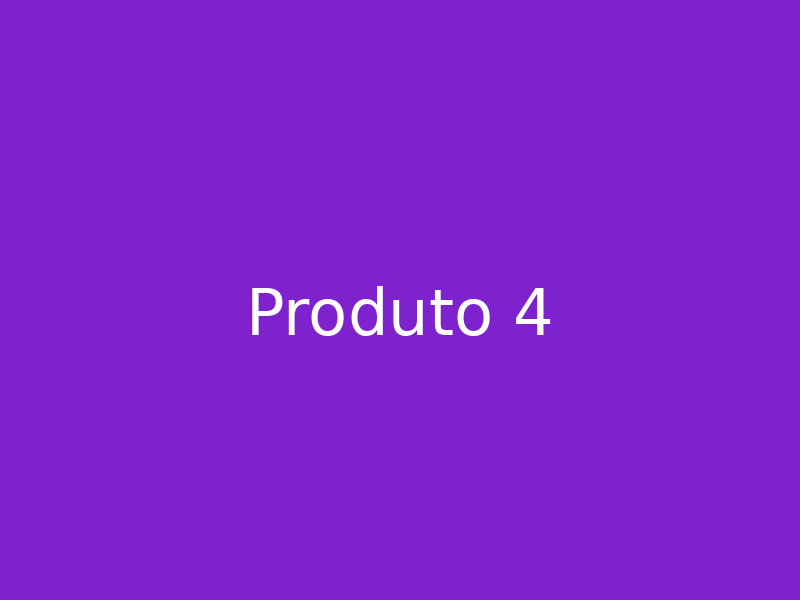
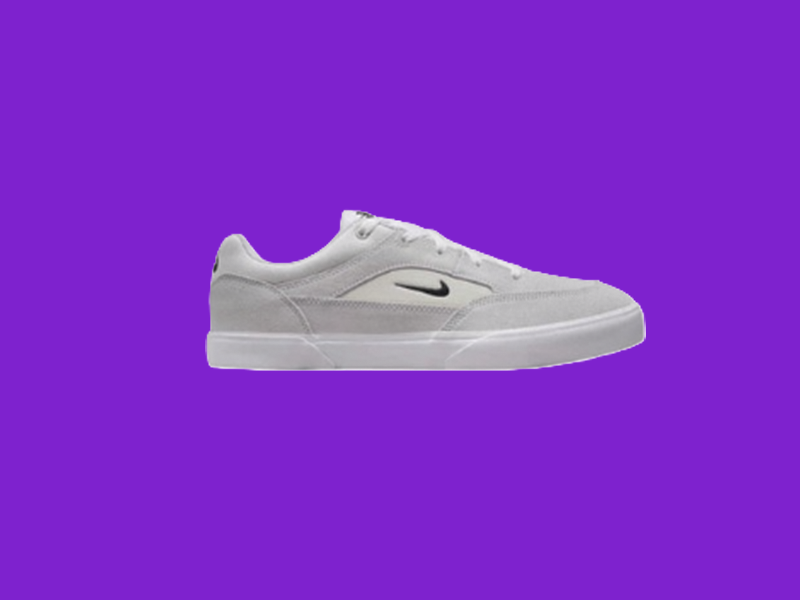
feat: add produtos vendidos

Changed region(s): [[0.25, 0.33, 0.8125, 0.63]]

diff --git a/src/styles/globals.css b/src/styles/globals.css
@@ -1,28 +1,108 @@
-
-:root{
-  --bg:#f5f6fa;
-  --surface:#ffffff;
-  --text:#222;
-  --muted:#6b7280;
-  --primary:#0d66c2;
+:root {
+  --bg: #f5f6fa;
+  --surface: #ffffff;
+  --text: #222;
+  --muted: #6b7280;
+  --primary: #0d66c2;
 }
-*{box-sizing:border-box}
-html,body{padding:0;margin:0;font-family:system-ui, -apple-system, Segoe UI, Roboto, Ubuntu, Cantarell, Noto Sans, Arial, "Apple Color Emoji","Segoe UI Emoji"; color:var(--text);background:var(--bg)}
 
-.container{width:min(1100px, 92%); margin:0 auto}
-.topbar{position:sticky;top:0;background:var(--surface);border-bottom:1px solid #e5e7eb;z-index:10}
-.topbar-inner{display:flex;align-items:center;justify-content:space-between;padding:14px 0}
-.logo{font-weight:700;letter-spacing:0.4px;text-decoration:none;color:var(--text)}
-.menu a{margin-left:18px;text-decoration:none;color:var(--text)}
-.menu .carrinho-link span{background:var(--primary);color:#fff;border-radius:999px;padding:2px 8px;margin-left:6px}
+* {
+  box-sizing: border-box
+}
 
-.btn{background:var(--primary);color:#fff;border:none;border-radius:6px;padding:10px 14px;cursor:pointer}
-.btn:hover{filter:brightness(0.95)}
+html,
+body {
+  padding: 0;
+  margin: 0;
+  font-family: system-ui, -apple-system, Segoe UI, Roboto, Ubuntu, Cantarell, Noto Sans, Arial, "Apple Color Emoji", "Segoe UI Emoji";
+  color: var(--text);
+  background: var(--bg)
+}
+
+.container {
+  width: min(1100px, 92%);
+  margin: 0 auto
+}
+
+.topbar {
+  position: sticky;
+  top: 0;
+  background: var(--surface);
+  border-bottom: 1px solid #e5e7eb;
+  z-index: 10
+}
+
+.topbar-inner {
+  display: flex;
+  align-items: center;
+  justify-content: space-between;
+  padding: 14px 0
+}
+
+.logo {
+  font-weight: 700;
+  letter-spacing: 0.4px;
+  text-decoration: none;
+  color: var(--text)
+}
+
+.menu a {
+  margin-left: 18px;
+  text-decoration: none;
+  color: var(--text)
+}
+
+.menu .carrinho-link span {
+  background: var(--primary);
+  color: #fff;
+  border-radius: 999px;
+  padding: 2px 8px;
+  margin-left: 6px
+}
+
+.btn {
+  background: var(--primary);
+  color: #fff;
+  border: none;
+  border-radius: 6px;
+  padding: 10px 14px;
+  cursor: pointer
+}
+
+.btn:hover {
+  filter: brightness(0.95)
+}
 
 /* Cards e grid compartilhados */
-.produto-card{background:var(--surface);border:1px solid #e5e7eb;border-radius:10px;display:block;text-decoration:none;color:inherit;overflow:hidden}
-.produto-card img{width:100%;height:180px;object-fit:cover}
-.produto-card h3{margin:10px 12px 6px;font-size:1rem}
-.produto-card .preco{margin:0 12px 14px;color:var(--primary);font-weight:700}
+.produto-card {
+  background: var(--surface);
+  border: 1px solid #e5e7eb;
+  border-radius: 10px;
+  display: block;
+  text-decoration: none;
+  color: inherit;
+  overflow: hidden
+}
 
-.grid-produtos{display:grid;gap:18px;grid-template-columns:repeat(auto-fit,minmax(180px,1fr))}
+.produto-card img {
+  width: 100%;
+  height: 180px;
+  object-fit: cover
+}
+
+.produto-card h3 {
+  margin: 10px 12px 6px;
+  font-size: 1rem
+}
+
+.produto-card .preco {
+  margin: 0 12px 14px;
+  color: var(--primary);
+  font-weight: 700
+}
+
+.grid-produtos {
+  display: grid;
+  gap: 18px;
+  grid-template-columns: repeat(auto-fit, minmax(180px, 1fr))
+}

diff --git a/src/data/produtos.js b/src/data/produtos.js
@@ -1,11 +1,11 @@
 
 export const produtos = [
-  { id: 1, nome: 'Caneca The Cure', preco: 49.9, imagem: '/images/produto1.png', descricao: 'Caneca artesanal de barro queimado.' },
-  { id: 2, nome: 'Camiseta Nike SB ', preco: 79.9, imagem: '/images/produto2.png', descricao: 'Camiseta 100% algodão.' },
-  { id: 3, nome: 'Câmara Polaroid', preco: 500.0, imagem: '/images/produto3.png', descricao: 'Câmara Polaroid Origal.' },
-  { id: 4, nome: 'Boné Minimal', preco: 69.9, imagem: '/images/produto4.png', descricao: 'Boné ajustável com logo discreto.' },
-  { id: 5, nome: 'Adesivo Capputeeno', preco: 9.9, imagem: '/images/produto5.png', descricao: 'Adesivo vinílico resistente à água.' },
-  { id: 6, nome: 'Poster Tipografia', preco: 39.9, imagem: '/images/produto6.png', descricao: 'Poster A3 impressão digital.' },
-  { id: 7, nome: 'Meia Listrada', preco: 29.9, imagem: '/images/produto7.png', descricao: 'Par de meias listradas super confortáveis.' },
-  { id: 8, nome: 'Caneca Esmaltada', preco: 54.9, imagem: '/images/produto8.png', descricao: 'Caneca esmaltada estilo retrô.' },
+  { id: 1, nome: 'Caneca The Cure', preco: 50.0, imagem: '/images/produto1.png', descricao: 'Caneca artesanal de barro queimado.' },
+  { id: 2, nome: 'Camiseta Nike SB ', preco: 70.0, imagem: '/images/produto2.png', descricao: 'Camiseta 100% algodão.' },
+  { id: 3, nome: 'Câmera Polaroid', preco: 500.0, imagem: '/images/produto3.png', descricao: 'Câmara Polaroid Origal.' },
+  { id: 4, nome: 'Tênis Nike SB, nº 43', preco: 60.0, imagem: '/images/produto4.png', descricao: 'Tênis NiKe Sb de skatista pra skatista nº43.' },
+  { id: 5, nome: 'Tripe Profissional', preco: 50.0, imagem: '/images/produto5.png', descricao: 'Tripe Profissional Semi-Hidraulica 180cm Para Cameras E Celulares.' },
+  { id: 6, nome: 'Mochila Tática Militar Para Camping', preco: 100, imagem: '/images/produto6.png', descricao: 'PPara Camping.' },
+  { id: 7, nome: 'Blusa Vans GG', preco: 100.0, imagem: '/images/produto7.png', descricao: 'Blusa 100% Original.' },
+  { id: 8, nome: 'Capacete SkateBike', preco: 50.0, imagem: '/images/produto8.png', descricao: 'Ideal para role proegido.' },
 ];

diff --git a/src/components/CarrinhoResumo.jsx b/src/components/CarrinhoResumo.jsx
@@ -6,6 +6,31 @@ import { formatarBRL } from "../utils/moeda";
 export default function CarrinhoResumo() {
   const { itens, incrementar, decrementar, remover, total } = useCarrinho();
 
+  // FUNÇÃO PARA ABRIR WHATSAPP
+  // -------------------------
+  const enviarWhatsApp = () => {
+    const numero = "5511971604273"; 
+
+    // Monta a mensagem com os itens
+    let mensagem = "Olá! Quero finalizar minha compra:%0A%0A";
+
+    itens.forEach((item) => {
+      mensagem += `• ${item.nome} (Qtd: ${item.quantidade}) - ${formatarBRL(
+        item.preco
+      )}%0A`;
+    });
+
+    mensagem += `%0ATotal: ${formatarBRL(total)}`;
+
+   
+    const url = `https://wa.me/${numero}?text=${mensagem}`;
+
+    
+    window.open(url, "_blank");
+  };
+
+  // -------------------------
+
   if (itens.length === 0) {
     return <p>Seu carrinho está vazio.</p>;
   }
@@ -23,16 +48,27 @@ export default function CarrinhoResumo() {
                 <button onClick={() => decrementar(item.id)}>-</button>
                 <span>{item.quantidade}</span>
                 <button onClick={() => incrementar(item.id)}>+</button>
-                <button className="remover" onClick={() => remover(item.id)}>Remover</button>
+                <button className="remover" onClick={() => remover(item.id)}>
+                  Remover
+                </button>
               </div>
             </div>
           </li>
         ))}
       </ul>
+
+      {/* RESUMO */}
       <aside className="resumo">
         <h4>Resumo do pedido</h4>
-        <div className="linha"><span>Total</span><strong>{formatarBRL(total)}</strong></div>
-        <button className="btn">Finalizar compra</button>
+        <div className="linha">
+          <span>Total</span>
+          <strong>{formatarBRL(total)}</strong>
+        </div>
+
+        {/* BOTÃO DE FINALIZAR */}
+        <button className="btn" onClick={enviarWhatsApp}>
+          Finalizar compra via WhatsApp
+        </button>
       </aside>
     </div>
   );

diff --git a/src/styles/produto.css b/src/styles/produto.css
@@ -1,11 +1,45 @@
+.produto {
+  display: grid;
+  grid-template-columns: 1fr;
+  gap: 22px;
+  padding: 18px 0
+}
 
-.produto{display:grid;grid-template-columns:1fr;gap:22px;padding:18px 0}
-.produto .imagem img{width:100%;height:auto;border-radius:10px;background:#fff;border:1px solid #e5e7eb}
-.produto .info .descricao{color:var(--muted)}
-.produto .info .preco{color:var(--primary);font-weight:700;font-size:1.25rem}
-.produto .acoes{display:flex;gap:12px;align-items:center;margin-top:10px}
-.produto .acoes input{width:70px;padding:8px;border:1px solid #e5e7eb;border-radius:6px}
+.produto .imagem img {
+  width: 100%;
+  height: auto;
+  border-radius: 10px;
+  background: #fff;
+  border: 1px solid #e5e7eb
+}
 
-@media(min-width:900px){
-  .produto{grid-template-columns:1fr 1fr;align-items:start}
+.produto .info .descricao {
+  color: var(--muted)
+}
+
+.produto .info .preco {
+  color: var(--primary);
+  font-weight: 700;
+  font-size: 1.25rem
+}
+
+.produto .acoes {
+  display: flex;
+  gap: 12px;
+  align-items: center;
+  margin-top: 10px
+}
+
+.produto .acoes input {
+  width: 70px;
+  padding: 8px;
+  border: 1px solid #e5e7eb;
+  border-radius: 6px
+}
+
+@media(min-width:900px) {
+  .produto {
+    grid-template-columns: 1fr 1fr;
+    align-items: start
+  }
 }
